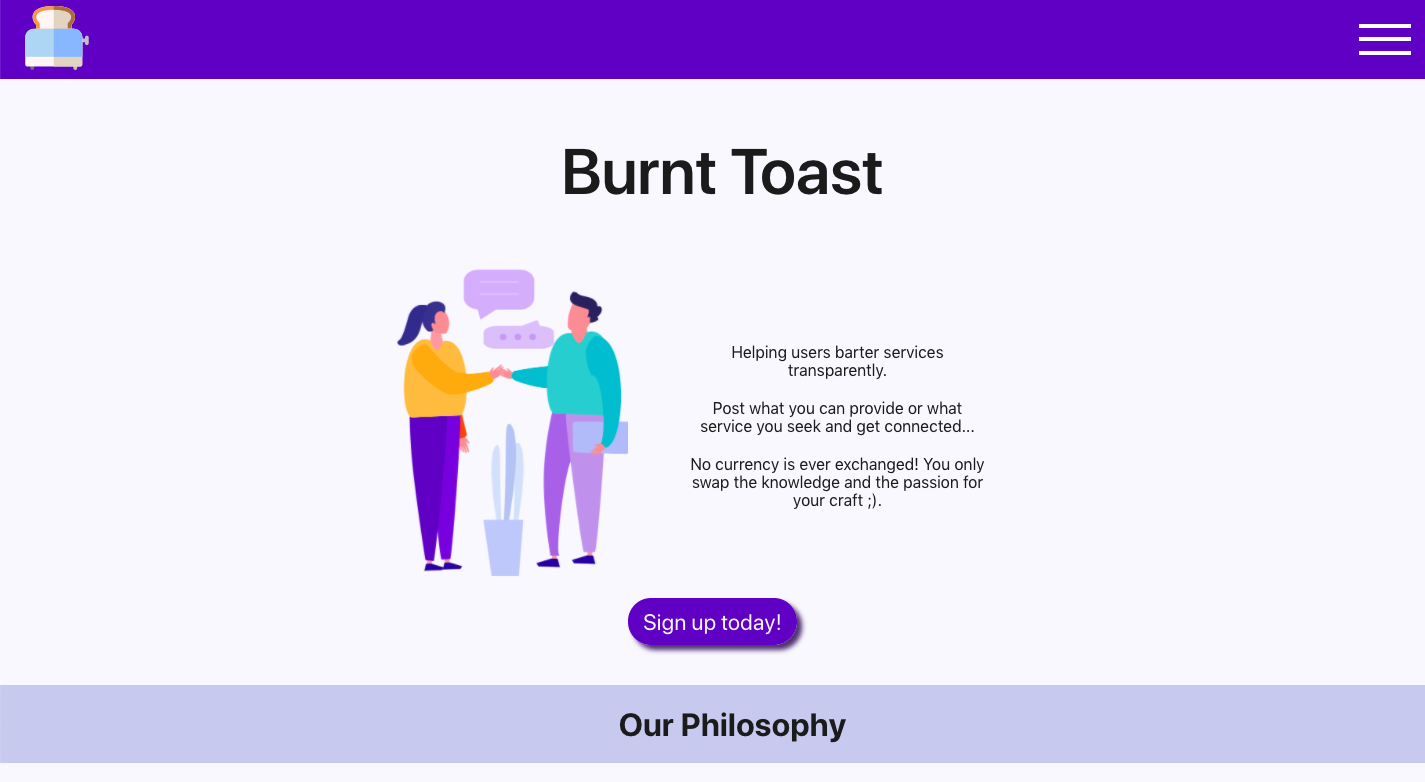
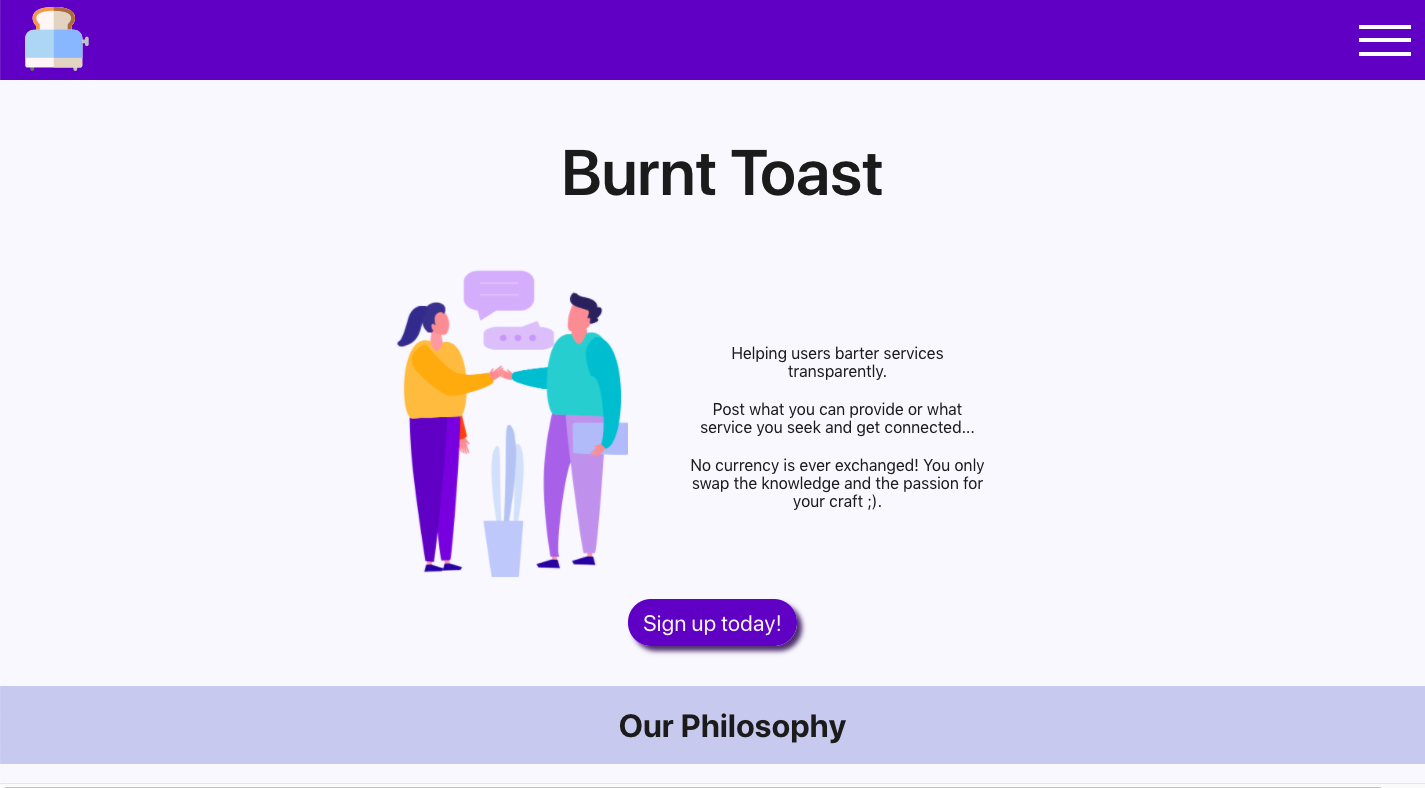
all one page, add error messages to form, and fix image and header size issues

diff --git a/public/index.html b/public/index.html
@@ -5,39 +5,13 @@
     <link rel="icon" href="%PUBLIC_URL%/favicon.ico" />
     <meta name="viewport" content="width=device-width, initial-scale=1" />
     <meta name="theme-color" content="#000000" />
-    <meta
-      name="description"
-      content="Web site created using create-react-app"
-    />
-    <link rel="apple-touch-icon" href="%PUBLIC_URL%/logo192.png" />
-    <!--
-      manifest.json provides metadata used when your web app is installed on a
-      user's mobile device or desktop. See https://developers.google.com/web/fundamentals/web-app-manifest/
-    -->
+    <meta name="description" content="The portfolio of web developer Nicholas Hemerling." />
+    <link rel="apple-touch-icon" href="%PUBLIC_URL%/apple-touch-icon.png" />
     <link rel="manifest" href="%PUBLIC_URL%/manifest.json" />
-    <!--
-      Notice the use of %PUBLIC_URL% in the tags above.
-      It will be replaced with the URL of the `public` folder during the build.
-      Only files inside the `public` folder can be referenced from the HTML.
-
-      Unlike "/favicon.ico" or "favicon.ico", "%PUBLIC_URL%/favicon.ico" will
-      work correctly both with client-side routing and a non-root public URL.
-      Learn how to configure a non-root public URL by running `npm run build`.
-    -->
     <title>Nicholas Hemerling Portfolio</title>
   </head>
   <body>
     <noscript>You need to enable JavaScript to run this app.</noscript>
     <div id="root"></div>
-    <!--
-      This HTML file is a template.
-      If you open it directly in the browser, you will see an empty page.
-
-      You can add webfonts, meta tags, or analytics to this file.
-      The build step will place the bundled scripts into the <body> tag.
-
-      To begin the development, run `npm start` or `yarn start`.
-      To create a production bundle, use `npm run build` or `yarn build`.
-    -->
   </body>
 </html>

diff --git a/src/Nav/Nav.js b/src/Nav/Nav.js
@@ -1,50 +1,15 @@
 import React from 'react';
-import { NavLink } from 'react-router-dom';
 import './Nav.css';
 
 export default function Nav(props) {
     return(
         <nav>
             <ul>
-                <li>
-                    <NavLink
-                        exact
-                        activeClassName="navbar__link--active"
-                        className="navbar__link" 
-                        to='/'
-                    >
-                        Home
-                    </NavLink>
-                </li>
-                <li>
-                    <NavLink
-                        activeClassName="navbar__link--active"
-                        className="navbar__link"
-                        to='/about'
-                    >
-                        About
-                    </NavLink>
-                </li>
-                <li>
-                    <NavLink
-                        activeClassName="navbar__link--active"
-                        className="navbar__link"
-                        to='/portfolio'
-                    >
-                        Portfolio
-                    </NavLink>
-                </li>
-                <li>
-                    <NavLink
-                        activeClassName="navbar__link--active"
-                        className="navbar__link"
-                        to='/contact'
-                    >
-                        Contact
-                    </NavLink>
-                </li>
+                <li><a href="#home">Home</a></li>
+                <li><a href="#about">About</a></li>
+                <li><a href="#portfolio">Portfolio</a></li>
+                <li><a href="#contact">Contact</a></li>
             </ul>
         </nav>
     );
 }
-// YOURE GOING TO MAKE THESE NAV LINKS AND DO WHAT NAV LINKS DO

diff --git a/src/index.css b/src/index.css
@@ -28,7 +28,7 @@ main h3 {
   font-size: 28px;
 }
 
-main p, 
+main p,
 main li {
   font-family: Baskerville, serif;
   font-size: 20px;
@@ -50,7 +50,7 @@ header h1 {
   padding: 20px -20px;
   color: #fff;
   font-family: 'Gill Sans', serif;
-  font-size: 74px;
+  font-size: 60px;
   padding-top: 20px;
   transition-duration: 0.6s;
 }
@@ -71,7 +71,7 @@ header nav ul {
 }
 
 header nav ul li a {
-  color: #fff; 
+  color: #fff;
   font-family: Baskerville, serif;
   font-size: 20px;
   font-weight: bold;
@@ -107,8 +107,13 @@ main a:link    {color: #000}
 main a:visited {color: #000}
 main a:hover   {color: #000}
 
-.navbar__link--active {
+header nav ul li a:hover {
   color: #50bfe6;
+}
+
+div ul li a:hover,
+p a:hover {
+  color: #ff6eff;
 }
 
 /* Contact Form Design */
@@ -119,7 +124,7 @@ form {
   font-size: 20px;
   color: #000;
 }
-form input, 
+form input,
 form textarea {
   width: 100%;
   margin-bottom: 20px;
@@ -137,6 +142,13 @@ form button {
   color: #000;
   margin: 0 8px 50px 0;
   transition-duration: 0.4s;
+}
+
+form button:hover {
+  background-color: #66ff66;
+  border: 1px solid #fff;
+  color: #fff;
+  cursor: pointer;
 }
 
 /* Styling Footer */
@@ -195,24 +207,8 @@ footer {
     margin-top: 14px;
   }
 
-  .navbar__link:hover {
-    color: #50bfe6;
-  }
-
-  div ul li a:hover,
-  p a:hover {
-    color: #ff6eff;
-  }
-
   form {
     padding: 0 0 0 50px;
-  }
-
-  form button:hover {
-    background-color: #66ff66;
-    border: 1px solid #fff;
-    color: #fff;
-    cursor: pointer;
   }
 
   .wrapper {

diff --git a/src/Home/Home.js b/src/Home/Home.js
@@ -7,12 +7,12 @@ export default function Home(props) {
         <section id="home" className="wrapper">
             <div className="group">
                 <div className="item">
-                    <img src={nicoHome} alt="Nicholas Hemerling at Mont Saint Michel in France" class="rounded" />
+                    <img src={nicoHome} alt="Nicholas Hemerling at Mont Saint Michel in France" className="rounded" />
                 </div>
                 <div className="item item-double">
                     <p className="intro">Hey! I'm Nicholas Hemerling.</p>
-                    <p>I'm a software developer studying at Thinkful, and am based in Lafayette, California. 
-                        I graduated with a BA from Middlebury College and 
+                    <p>I'm a software developer studying at Thinkful, and am based in Lafayette, California.
+                        I graduated with a BA from Middlebury College and
                         have also spent two years training at French theater school École Philippe Gaulier.</p>
                 </div>
             </div>

diff --git a/src/Contact/Contact.js b/src/Contact/Contact.js
@@ -17,13 +17,13 @@ export default function Contact(props) {
                 <div className="item item-double">
                     <form action="https://formspree.io/mdowlvep" method="POST">
                         <label htmlFor="user-name">Name:</label>
-                        <input id="user-name" type="text" name="name" />
+                        <input id="user-name" type="text" name="name" required/>
 
                         <label htmlFor="user-email">Email:</label>
-                        <input id="user-email" type="email" name="_replyto" />
+                        <input id="user-email" type="email" name="_replyto" required/>
 
                         <label htmlFor="user-message">Message:</label>
-                        <textarea id="user-message" name="message"></textarea>
+                        <textarea id="user-message" name="message" required></textarea>
                         <button type="submit">Send</button>
                     </form>
                 </div>

diff --git a/src/Main/Main.js b/src/Main/Main.js
@@ -1,5 +1,4 @@
 import React from 'react';
-import { Route, Switch } from 'react-router-dom';
 import Home from '../Home/Home';
 import About from '../About/About';
 import Portfolio from '../Portfolio/Portfolio';
@@ -8,11 +7,11 @@ import './Main.css';
 
 export default function Main(props) {
     return(
-        <Switch>
-            <Route exact path='/' component={Home}></Route>
-            <Route path='/about' component={About}></Route>
-            <Route path='/portfolio' component={Portfolio}></Route>
-            <Route path='/contact' component={Contact}></Route>
-        </Switch>
+        <main>
+            <Home />
+            <About />
+            <Portfolio />
+            <Contact />
+        </main>
     );
 }
